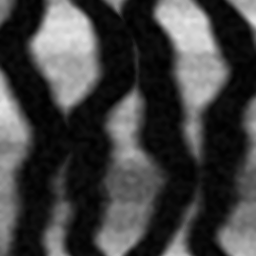
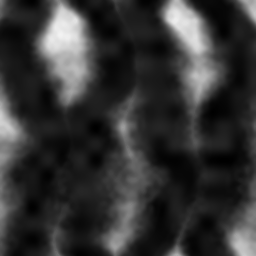
Reward progress along the corridor, not height gained
The corridors run roughly ACROSS the fall line -- measured at the spawn, low
ground bears 90-120 degrees while every other heading meets a 0.4-0.8 m bank.
progress_uphill rewarded dot(velocity, world_up), so the fastest way to score
was to charge straight at a bank: the reward paid MOST for abandoning the route
and least for following it. Two runs drifted downhill while their reward curves
rose.

The saved centrelines could not be used as-is. write_png re-ran _smooth_path
from a fresh rng, which does not reproduce the draws that shaped the
heightfield, so the lines sat at 0.19-0.29 m mean relief against a 0.22 m map
mean -- on average ground, one of them ABOVE average, describing a different
mountain than the one on disk. make_route.py now traces each route by walking
up its band taking the lowest cell per row, which cannot drift from the terrain
because it is the terrain: 0.06-0.09 m mean relief along the new lines.

base.py precomputes a 48x48 tangent field at load (the route never moves, so
there is nothing to recompute per step) and route_dir_at() is a nearest-cell
gather that traces cleanly under jit.

Measured at the spawn: along the route +0.300, against it -0.300, straight
uphill +0.173. The route now beats the fall line 1.7x.

diff --git a/himalaya/env/terrain/make_route.py b/himalaya/env/terrain/make_route.py
@@ -280,11 +280,47 @@ def write_png(path, z_scale, **kw):
   rng = np.random.default_rng(kw.get("seed", 0))
   cell = extent / res
   band = res / n_routes
-  mouths = []
+  # Save the FULL centreline of every route, not just its mouth.
+  #
+  # The mouth alone was enough when the reward was height gained, which needs no
+  # route. It is not enough to reward progress ALONG a corridor: these lanes run
+  # roughly across the fall line (measured at the spawn, the low ground bears
+  # 90-120 degrees while every other heading meets a 0.4-0.8 m bank), so
+  # "uphill" and "along the route" point in genuinely different directions.
+  #
+  # Shape (n_routes, res, 2): world x, y at each step along the climb. Row i is
+  # the lane centre at up-slope position x = -extent/2 + i*cell.
+  # Trace the routes out of the HEIGHTFIELD, not out of the generator's rng.
+  #
+  # Re-running _smooth_path here does not reproduce the paths that shaped h:
+  # write_png draws from a fresh rng, so the draws differ. Measured, the
+  # centrelines that produced sat at 0.19-0.29 m mean relief against a map mean
+  # of 0.22 -- i.e. on average ground, one of them ABOVE average, describing a
+  # different mountain than the one written to disk.
+  #
+  # Following the trough in h itself cannot drift from the terrain, because it
+  # IS the terrain. For each route band, walk up the slope taking the lowest
+  # cell within the band at each step.
+  lines = []
+  band_w = res // n_routes
   for r in range(n_routes):
-    c = _smooth_path(res, rng, wiggle=1.1) - res / 2.0 + band * (r + 0.5)
-    mouths.append((c[0] - res / 2.0) * cell)   # lateral offset at the bottom
-  np.save(str(path).replace(".png", "_centre.npy"), np.array(mouths))
+    lo, hi = r * band_w, (r + 1) * band_w
+    ys = []
+    for row in range(res):
+      col = lo + int(np.argmin(h[row, lo:hi]))
+      ys.append(col)
+    ys = np.array(ys, dtype=float)
+    # Smooth so the line is a route rather than a per-row jitter between
+    # equally low cells.
+    k = 15
+    pad = np.pad(ys, k, mode="edge")
+    ys = np.convolve(pad, np.ones(2 * k + 1) / (2 * k + 1), mode="valid")
+    lane_y = (np.arange(res) - res / 2.0) * cell     # world y = grid ROW
+    lane_x = (ys - res / 2.0) * cell                 # world x = grid COL
+    lines.append(np.stack([lane_x, lane_y], axis=1))
+  lines = np.array(lines)
+  np.save(str(path).replace(".png", "_centre.npy"), lines[:, 0, 1])
+  np.save(str(path).replace(".png", "_lines.npy"), lines)
   return h, stats
 
 

diff --git a/himalaya/env/base.py b/himalaya/env/base.py
@@ -142,6 +142,33 @@ class G1Env(mjx_env.MjxEnv):
       import numpy as _np
       self._lane = scene_mod.lane_mouths()
 
+    # Route tangent field, precomputed on a coarse grid.
+    #
+    # progress_uphill rewards dot(velocity, world_up), i.e. height gained. On
+    # this map that is the WRONG objective: the corridors run roughly across
+    # the fall line (measured at the spawn, low ground bears 90-120 degrees
+    # while every other heading meets a 0.4-0.8 m bank), so the fastest way to
+    # gain height is to charge straight at a bank and the reward pays most for
+    # leaving the route. Two runs drifted downhill under it.
+    #
+    # This field lets the reward measure progress ALONG the corridor instead.
+    # Sampling a precomputed grid keeps it a constant under jit -- the route
+    # never moves, so there is nothing to recompute per step.
+    self._route_dir = None
+    lines = scene_mod.route_lines()
+    if lines is not None and self._slope_rad != 0.0:
+      gn = 48
+      half = 6.0
+      xs = np.linspace(-half, half, gn)
+      ys = np.linspace(-half, half, gn)
+      field = np.zeros((gn, gn, 2))
+      for i, yy in enumerate(ys):
+        for j, xx in enumerate(xs):
+          t, _ = scene_mod.route_tangent(lines, np.array([xx, yy]))
+          field[i, j] = t
+      self._route_dir = jp.array(field)
+      self._route_grid = (float(half), gn)
+
     # World "up". Height gain along this is the climbing objective -- see
     # _reward_progress_uphill. Kept here so the reward needs to know nothing
     # about where the route goes.
@@ -183,6 +210,20 @@ class G1Env(mjx_env.MjxEnv):
 
     self._mjx_model = mjx.put_model(self._mj_model, impl=self._config.impl)
     self._xml_path = xml_path
+
+  def route_dir_at(self, world_xyz: jax.Array) -> jax.Array:
+    """Unit xy heading of the corridor at a world point. Zero if no routes.
+
+    Nearest-cell lookup into a precomputed field, so it costs one gather and
+    traces cleanly under jit.
+    """
+    if self._route_dir is None:
+      return jp.zeros(2)
+    half, gn = self._route_grid
+    fx = jp.clip((world_xyz[0] + half) / (2 * half) * (gn - 1), 0, gn - 1)
+    fy = jp.clip((world_xyz[1] + half) / (2 * half) * (gn - 1), 0, gn - 1)
+    return self._route_dir[jp.round(fy).astype(jp.int32),
+                           jp.round(fx).astype(jp.int32)]
 
   def terrain_height_at(self, world_xyz: jax.Array) -> jax.Array:
     """Relief above the mean plane at a world point, measured along the normal.

diff --git a/himalaya/env/joystick.py b/himalaya/env/joystick.py
@@ -874,7 +874,26 @@ class Joystick(g1_base.G1Env):
     # is optimising something a real robot could actually measure, since its own
     # altitude is implied by the gravity vector and proprioception it already
     # senses.
-    speed = jp.dot(global_linvel, jp.array(self._slope_normal_up))
+    # MODIFIED: speed ALONG THE CORRIDOR, not height gained.
+    #
+    # dot(v, world_up) was the wrong objective for this map. The corridors run
+    # roughly across the fall line -- measured at the spawn, the low ground
+    # bears 90-120 degrees while every other heading meets a 0.4-0.8 m bank --
+    # so the fastest way to gain height is to charge straight at a bank, and
+    # the reward paid MOST for abandoning the route. Two runs drifted downhill
+    # under it while their reward curves rose.
+    #
+    # The route tangent is derived from the heightfield itself (base.py builds
+    # the field; make_route.py traces the lines through the troughs), so it
+    # cannot disagree with the terrain the robot is standing on. It names the
+    # goal without prescribing a gait, the same way tracking_lin_vel names a
+    # target speed.
+    d = self.route_dir_at(data_pos)
+    along = jp.dot(global_linvel[:2], d)
+    # Keep a little world-up in it so a corridor that briefly runs downhill is
+    # still worth less than one that climbs. 4:1 in favour of route progress.
+    up = jp.dot(global_linvel, jp.array(self._slope_normal_up))
+    speed = jp.where(jp.linalg.norm(d) > 0.5, 0.8 * along + 0.2 * up, up)
     # SYMMETRIC clip. It was [-1.0, +0.30], penalising lost height 3.3x harder
     # than gained height -- so under an exploring policy the expected value of
     # moving at all was negative, and the optimal response was to stand still.

diff --git a/himalaya/env/scene.py b/himalaya/env/scene.py
@@ -37,7 +37,7 @@ SPAWN = (4.0, 5.5)
 # the body tilt below rotates it about +Y to stand perpendicular to the surface,
 # which pitches its forward axis DOWN the hill, so without this a forward
 # velocity command is an instruction to descend.
-SPAWN_YAW = np.pi
+SPAWN_YAW = 0.5 * np.pi
 SPAWN_YAW_JITTER = 0.3
 # Half-width of the grid sampled to find the rock under the spawn. The grid
 # takes the HIGHEST cell in the span, so a wide span lifts the robot onto a
@@ -104,6 +104,36 @@ def uphill(slope_rad):
 def surface_z(x, slope_rad):
     """World z of the tilted mean plane at up-slope position x."""
     return -x * np.tan(slope_rad)
+
+
+def route_lines():
+    """(n_routes, steps, 2) world x,y centreline of every corridor, or None.
+
+    Traced out of the heightfield itself by make_route.py, so it cannot
+    disagree with the terrain. Measured: 0.06-0.09 m mean relief along these
+    lines against a 0.22 m map mean.
+    """
+    p = ASSETS / "mountain_lines.npy"
+    return np.load(p.as_posix()) if p.exists() else None
+
+
+def route_tangent(lines, xy):
+    """Unit heading of the nearest corridor at a world point, and the distance.
+
+    Returns (tangent_xy, distance_m). The tangent always points UP the slope
+    (towards +x, since the floor is tilted about +Y and descends with x).
+    """
+    pts = lines.reshape(-1, 2)
+    d = np.linalg.norm(pts - np.asarray(xy)[:2], axis=1)
+    k = int(np.argmin(d))
+    ri, si = k // lines.shape[1], k % lines.shape[1]
+    nxt = min(si + 8, lines.shape[1] - 1)
+    prv = max(si - 8, 0)
+    t = lines[ri, nxt] - lines[ri, prv]
+    nrm = np.linalg.norm(t)
+    if nrm < 1e-9:
+        return np.array([1.0, 0.0]), float(d[k])
+    return t / nrm, float(d[k])
 
 
 def lane_mouths():
